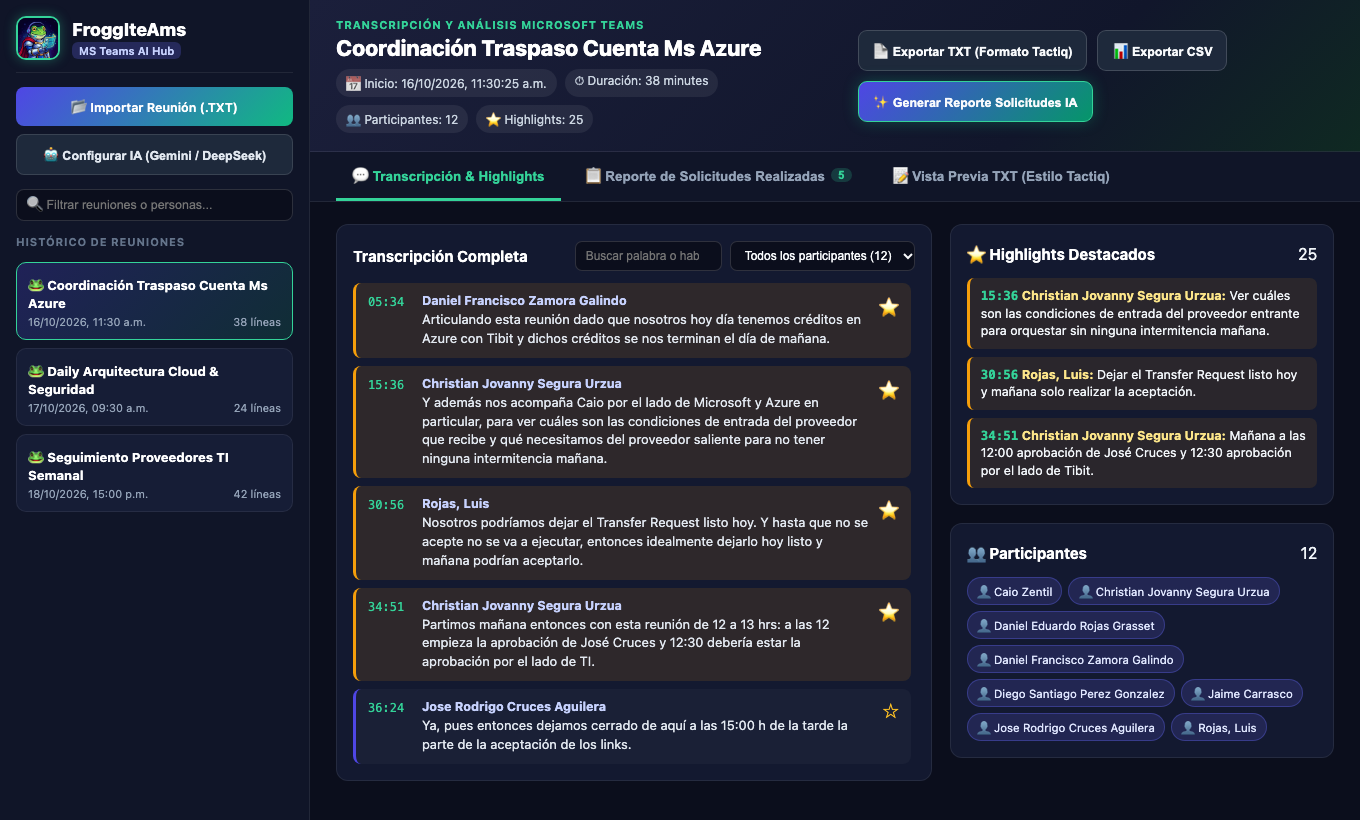
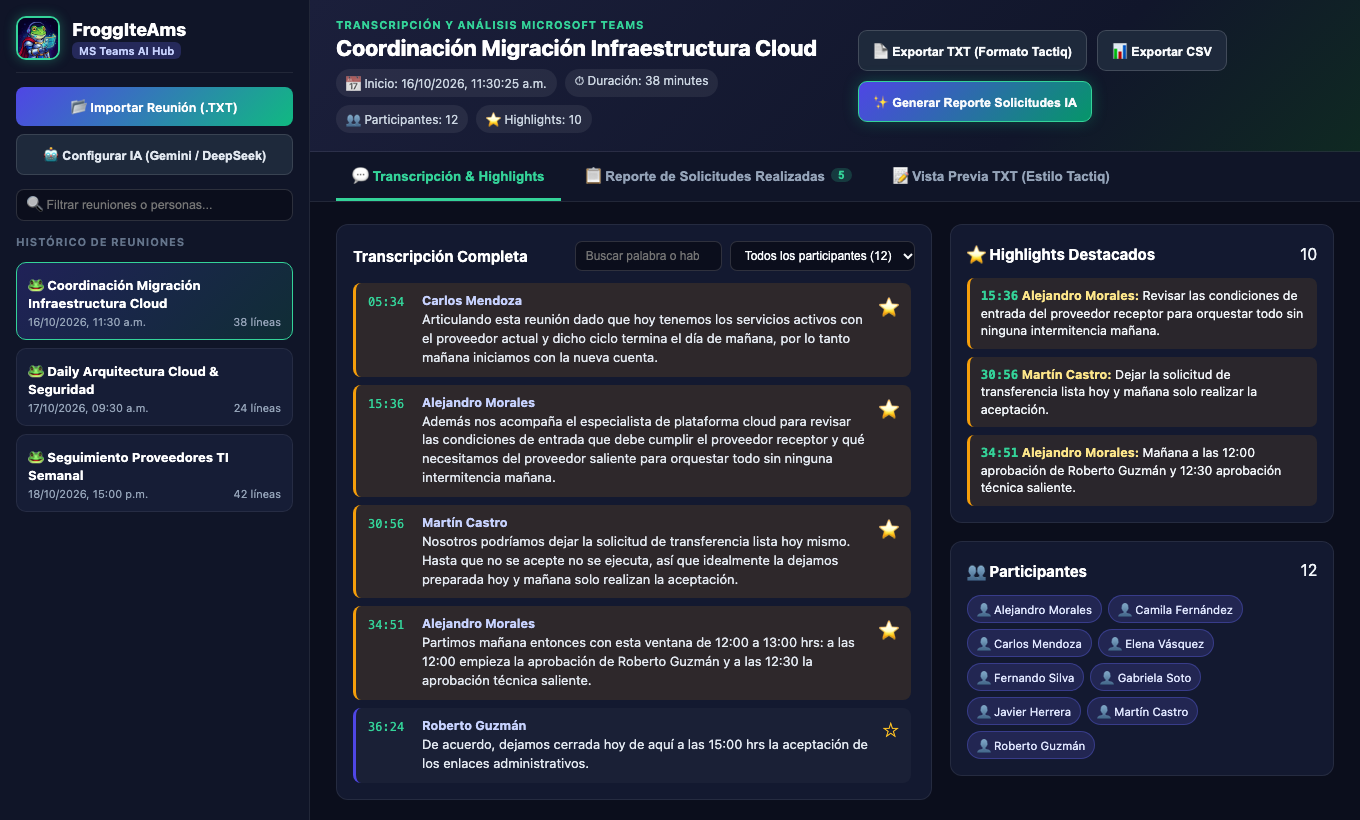
chore: anonymize sample participant names and regenerate README preview screenshots

diff --git a/lib/sample-data.js b/lib/sample-data.js
@@ -1,115 +1,122 @@
 // lib/sample-data.js
-// Pre-loaded sample meeting matching "Coordinación Traspaso Cuenta Ms Azure.txt"
+// Pre-loaded generic sample meeting for FroggIteAms
 
 export const SAMPLE_MEETING = {
-  id: "sample-azure-transfer-2026",
-  title: "Coordinación Traspaso Cuenta Ms Azure",
+  id: "sample-cloud-migration-2026",
+  title: "Coordinación Migración Infraestructura Cloud",
   startedAt: "2026-10-16T11:30:25.000Z",
   startedDisplay: "16/10/2026, 11:30:25 a.m.",
   durationMinutes: 38,
   durationDisplay: "38 minutes",
-  sourceUrl: "https://teams.microsoft.com/l/meetup-join/sample-azure-transfer",
+  sourceUrl: "https://teams.cloud.microsoft/l/meetup-join/sample-cloud-migration",
   participants: [
-    "Caio Zentil",
-    "Christian Jovanny Segura Urzua",
-    "Daniel Eduardo Rojas Grasset",
-    "Daniel Francisco Zamora Galindo",
-    "Diego Santiago Perez Gonzalez",
-    "Jaime Carrasco",
-    "Jorge Daniel Quiroz Llanten",
-    "Jose Rodrigo Cruces Aguilera",
-    "Juan Mora",
-    "Pamela  Canaval",
-    "Paola Karolina Lillo Azúa",
-    "Rojas, Luis"
+    "Alejandro Morales",
+    "Camila Fernández",
+    "Carlos Mendoza",
+    "Elena Vásquez",
+    "Fernando Silva",
+    "Gabriela Soto",
+    "Javier Herrera",
+    "Lucía Navarro",
+    "Martín Castro",
+    "Roberto Guzmán",
+    "Sofía Ortega",
+    "Valentina Ríos"
   ],
   highlights: [
-    { time: "05:34", speaker: "Daniel Francisco Zamora Galindo", text: "Articulando esta reunión dado que. Nosotros hoy día tenemos créditos con en azure con tribus. Y. Dichos créditos a nosotros se nos terminan el día de mañana, por lo tanto de mañana los créditos son." },
-    { time: "11:04", speaker: "Daniel Francisco Zamora Galindo", text: "Sí Sí, lo que pasa es que a ver. Hay Hay lo como yo expliqué, nuestros créditos terminan mañana." },
-    { time: "15:26", speaker: "Christian Jovanny Segura Urzua", text: "Que tenemos por contrato con tibitbens mañana. Entonces, la idea hoy día, dado que están las dos contrapartes. Tanto tibit como global." },
-    { time: "15:36", speaker: "Christian Jovanny Segura Urzua", text: "Y además nos acompaña caio por el lado de de Microsoft y acture en particular, que es lo que nos convoca en esta cambio de de proveedor de de crédito. Es justamente Es justamente poder ver cuáles son las condiciones de entrada que tiene que tener el proveedor que recibe que necesitamos del proveedor saliente para poder nosotros orquestar y no tener ningún ningún, ninguna intermitencia ni ninguna problemática. El día de mañana." },
-    { time: "22:18", speaker: "Jorge Daniel Quiroz Llanten", text: "Oye, bueno, por mi parte me gustaría entender entonces cómo seguimos, porque la verdad que aquí, como les digo, me acompaña Diego, nuestro, especialista de Atxture, YY entender cómo cuáles sería el siguiente paso, entendiendo que ya mañana se vencen los los créditos de." },
-    { time: "26:04", speaker: "Daniel Francisco Zamora Galindo", text: "Para eso. Sí, pero eso eso lo lo lo podemos hacer mañana. Pamela, si eso es entre nosotros." },
-    { time: "26:23", speaker: "Daniel Francisco Zamora Galindo", text: "Yo lo apoyo en, en todo caso, en en ese escenario, ahora lo que lo que es, sí, lo que es importante. ¿Jaime, es que por lo que yo entendí de lo que indicó Jorge Quiroz hace un rato aquí la conchaparte que nos debería apoyar es Diego, cierto?" },
-    { time: "26:56", speaker: "Daniel Francisco Zamora Galindo", text: "Perfecto, o sea, en el caso que tuviéramos alguna, o sea, eso te va a llegar entre 10 y mañana, aquí no cualquier cosa." },
-    { time: "27:55", speaker: "Daniel Francisco Zamora Galindo", text: "Pues es lo que yo es lo que yo es lo que yo entendí de todas estas conversa. No, no, no voy a tener dualidad de servicio, sino que voy a tener a una empresa que me va a empezar a entregar servicio mañana." },
-    { time: "30:13", speaker: "Daniel Francisco Zamora Galindo", text: "Ya yo entendería entonces que ese, ese esos últimos. Eso última, esa últimas dos actividades se realizarían mañana." },
-    { time: "30:45", speaker: "Daniel Francisco Zamora Galindo", text: "Durante la tarde, a lo mejor podría, podría decirte. Sé que mediodía, mañana o a las 16:00 h de la tarde." },
-    { time: "30:56", speaker: "Rojas, Luis", text: "Nosotros podríamos dejar el trance a request, listo. Y hasta que no se acepte no se va a ejecutar entonces. Idealmente, dejarlo hoy listo. Y ya, pues mañana podrían aceptar los. Sí." },
-    { time: "31:25", speaker: "Jorge Daniel Quiroz Llanten", text: "Y se puede proceder mañana con con lo requerido." },
-    { time: "32:35", speaker: "Christian Jovanny Segura Urzua", text: "Sí. ¿Ya entonces, mañana por el lado nuestro, Jose cruces, quién va a ir aprobando esto?" },
-    { time: "33:04", speaker: "Daniel Francisco Zamora Galindo", text: "¿Eso es mañana?" },
-    { time: "33:05", speaker: "Jose Rodrigo Cruces Aguilera", text: "Pero se va a hacer mañana." },
-    { time: "33:05", speaker: "Christian Jovanny Segura Urzua", text: "Eso que va a ser mañana lo va a Paula Lillo también." },
-    { time: "33:23", speaker: "Christian Jovanny Segura Urzua", text: "¿Cómo? Ya entonces mejor contigo, mañana ya y Por otro lado tenemos que después de que tú lo apruebes tiene que ir la aprobación por el lado de Diego y equipo de Tibit y ya con eso tendríamos la el traspaso completo de la cuenta." },
-    { time: "33:48", speaker: "Christian Jovanny Segura Urzua", text: "Dejémoslo fijémos aquí un horario, cosa de que por el lado nuestro a las dos haga por la aprobación y así tampoco. Tener a Diego, pendiente todo el día y tenga 1 hora en específico para que nos ayude con estas. Si la gente de global. ¿Les parece al mediodía? De mañana." },
-    { time: "34:16", speaker: "Christian Jovanny Segura Urzua", text: "Ya. Entonces, mañana al mediodía. De repente, Dani dentro de la de la web estáis haciendo, dejemos, dejemos esta reunión, agendar igual para mañana. No es que nos vayamos a subir a la reunión, pero por lo menos quedamos todos conectados a través del chat o si se requiere algo." },
-    { time: "34:51", speaker: "Christian Jovanny Segura Urzua", text: "Partimos mañana entonces que hemos esta reunión de 12 a una mañana a las 12 empieza la aprobación de Jose cruces y 1230 debería estar en la aprobación por el lado de TI y de ahí ya. Después hacemos un chequeo de que todas las entidades se hayan generado de manera correcta." },
-    { time: "35:40", speaker: "Rojas, Luis", text: "Ya eso podría hacerse, idealmente hoy, para que no quede como paso pendiente para mañana y que mañana solo sea aceptación de Transfer." },
-    { time: "36:10", speaker: "Rojas, Luis", text: "Primero, ya ya tienes los dos links, después que esos dos links sean aceptados. Se puede generar el siguiente link de aceptación que se llama Gigabit, y ahí se los volvemos a enviar y ya con eso quedaríamos con esos pasos adelantados y." },
-    { time: "37:04", speaker: "Daniel Francisco Zamora Galindo", text: "Perfecto. ¿Estaríamos entonces chiquillos ya ya pasarle la 7?" },
-    { time: "37:11", speaker: "Daniel Francisco Zamora Galindo", text: "Ahora, mañana. A cita el canal abierto." }
+    {
+      time: "05:34",
+      speaker: "Carlos Mendoza",
+      text: "Articulando esta reunión dado que hoy tenemos los servicios activos con el proveedor actual y dicho ciclo termina el día de mañana, por lo tanto mañana iniciamos con la nueva cuenta."
+    },
+    {
+      time: "11:04",
+      speaker: "Carlos Mendoza",
+      text: "Sí, como expliqué al inicio, el periodo del entorno actual finaliza mañana al mediodía."
+    },
+    {
+      time: "15:26",
+      speaker: "Alejandro Morales",
+      text: "Como el contrato anterior vence mañana, la idea hoy día es alinear a las dos contrapartes técnicas, tanto al equipo saliente como al proveedor entrante."
+    },
+    {
+      time: "15:36",
+      speaker: "Alejandro Morales",
+      text: "Además nos acompaña el especialista de plataforma cloud para revisar las condiciones de entrada que debe cumplir el proveedor receptor y qué necesitamos del proveedor saliente para orquestar todo sin ninguna intermitencia mañana."
+    },
+    {
+      time: "22:18",
+      speaker: "Javier Herrera",
+      text: "Por mi parte me gustaría confirmar cómo seguimos, aquí me acompaña Fernando, nuestro especialista de arquitectura, para definir el siguiente paso entendiendo que mañana se realiza el corte."
+    },
+    {
+      time: "30:56",
+      speaker: "Martín Castro",
+      text: "Nosotros podríamos dejar la solicitud de transferencia lista hoy mismo. Hasta que no se acepte no se ejecuta, así que idealmente la dejamos preparada hoy y mañana solo realizan la aceptación."
+    },
+    {
+      time: "32:35",
+      speaker: "Alejandro Morales",
+      text: "Entonces mañana por el lado nuestro, Roberto Guzmán será quien vaya aprobando el traspaso en el portal."
+    },
+    {
+      time: "33:23",
+      speaker: "Alejandro Morales",
+      text: "Después de que Roberto lo apruebe, tiene que ir la aprobación por el lado de Fernando y el equipo saliente, y con eso tendríamos el traspaso completo de la suscripción."
+    },
+    {
+      time: "34:51",
+      speaker: "Alejandro Morales",
+      text: "Partimos mañana entonces con esta ventana de 12:00 a 13:00 hrs: a las 12:00 empieza la aprobación de Roberto Guzmán y a las 12:30 la aprobación técnica saliente, seguido de un chequeo de todas las instancias."
+    },
+    {
+      time: "35:40",
+      speaker: "Martín Castro",
+      text: "Idealmente dejemos aceptados los enlaces de relación hoy antes de las 15:00 hrs para que mañana solo sea la aceptación de la transferencia."
+    }
   ],
   transcript: [
-    { time: "00:00", speaker: "Jorge Daniel Quiroz Llanten", text: "Hola Daniel Rojas. Puros Daniel, no hay 10 buen día.", highlighted: false },
-    { time: "00:04", speaker: "Daniel Eduardo Rojas Grasset", text: "Buen día.", highlighted: false },
-    { time: "00:19", speaker: "Paola Karolina Lillo Azúa", text: "Hola, Buenos días.", highlighted: false },
-    { time: "00:45", speaker: "Jorge Daniel Quiroz Llanten", text: "Bien, gracias. Ahí para el para el resto, equivoque de IPS. Diego es nuestro especialista de de Artur. ¿Nos va a acompañar en esta sesión ya?", highlighted: false },
-    { time: "01:59", speaker: "Jaime Carrasco", text: "Sí, hola, Buenos días. Nos falta 1 a nosotros por el lado de por el lado de global, que es de Juan Mora.", highlighted: false },
-    { time: "02:06", speaker: "Daniel Francisco Zamora Galindo", text: "Perfecto tacayo del lado de Microsoft. Hola, buen día.", highlighted: false },
-    { time: "05:34", speaker: "Daniel Francisco Zamora Galindo", text: "Articulando esta reunión dado que. Nosotros hoy día tenemos créditos con en azure con tribus. Y. Dichos créditos a nosotros se nos terminan el día de mañana, por lo tanto de mañana los créditos son.", highlighted: true },
-    { time: "05:57", speaker: "Daniel Francisco Zamora Galindo", text: "Son gestionados. Por global car Por global Cartalo, para lo cual está Jaime y su equipo. ¿Entonces entiendo que hay una conversante ustedes para hacer el traspaso de la? ¿Eh? ¿Cómo se?", highlighted: false },
-    { time: "06:42", speaker: "Daniel Francisco Zamora Galindo", text: "Sí, pero solamente resumir de la parte de infraestructura de IPS está bueno. José Cruz es como jefe de infraestructura y la Paola como especialista, la Paola, como especialista, quienes conocen y la contraparte administrativa, posteriormente es Daniel Rojas que.", highlighted: false },
-    { time: "07:12", speaker: "Jaime Carrasco", text: "Sí el mira para para iniciarte este proceso, necesitamos que bueno, yo le envié por por correo. A José Luis y a Ana y a Paola. Que acceda accedan a ese link para. Para comenzar todo, todo este flujo. Con los usuarios de global admin de los dos tenant el tenant de Chile and de IPS. Ese es el primer Ese es el primer paso.", highlighted: false },
-    { time: "11:04", speaker: "Daniel Francisco Zamora Galindo", text: "Sí Sí, lo que pasa es que a ver. Hay Hay lo como yo expliqué, nuestros créditos terminan mañana.", highlighted: true },
-    { time: "15:26", speaker: "Christian Jovanny Segura Urzua", text: "Que tenemos por contrato con tibitbens mañana. Entonces, la idea hoy día, dado que están las dos contrapartes. Tanto tibit como global.", highlighted: true },
-    { time: "15:36", speaker: "Christian Jovanny Segura Urzua", text: "Y además nos acompaña caio por el lado de de Microsoft y acture en particular, que es lo que nos convoca en esta cambio de de proveedor de de crédito. Es justamente Es justamente poder ver cuáles son las condiciones de entrada que tiene que tener el proveedor que recibe que necesitamos del proveedor saliente para poder nosotros orquestar y no tener ningún ningún, ninguna intermitencia ni ninguna problemática. El día de mañana.", highlighted: true },
-    { time: "22:18", speaker: "Jorge Daniel Quiroz Llanten", text: "Oye, bueno, por mi parte me gustaría entender entonces cómo seguimos, porque la verdad que aquí, como les digo, me acompaña Diego, nuestro, especialista de Atxture, YY entender cómo cuáles sería el siguiente paso, entendiendo que ya mañana se vencen los los créditos de.", highlighted: true },
-    { time: "26:04", speaker: "Daniel Francisco Zamora Galindo", text: "Para eso. Sí, pero eso eso lo lo lo podemos hacer mañana. Pamela, si eso es entre nosotros.", highlighted: true },
-    { time: "26:23", speaker: "Daniel Francisco Zamora Galindo", text: "Yo lo apoyo en, en todo caso, en en ese escenario, ahora lo que lo que es, sí, lo que es importante. ¿Jaime, es que por lo que yo entendí de lo que indicó Jorge Quiroz hace un rato aquí la conchaparte que nos debería apoyar es Diego, cierto?", highlighted: true },
-    { time: "26:56", speaker: "Daniel Francisco Zamora Galindo", text: "Perfecto, o sea, en el caso que tuviéramos alguna, o sea, eso te va a llegar entre 10 y mañana, aquí no cualquier cosa.", highlighted: true },
-    { time: "27:55", speaker: "Daniel Francisco Zamora Galindo", text: "Pues es lo que yo es lo que yo es lo que yo entendí de todas estas conversa. No, no, no voy a tener dualidad de servicio, sino que voy a tener a una empresa que me va a empezar a entregar servicio mañana.", highlighted: true },
-    { time: "30:13", speaker: "Daniel Francisco Zamora Galindo", text: "Ya yo entendería entonces que ese, ese esos últimos. Eso última, esa últimas dos actividades se realizarían mañana.", highlighted: true },
-    { time: "30:45", speaker: "Daniel Francisco Zamora Galindo", text: "Durante la tarde, a lo mejor podría, podría decirte. Sé que mediodía, mañana o a las 16:00 h de la tarde.", highlighted: true },
-    { time: "30:56", speaker: "Rojas, Luis", text: "Nosotros podríamos dejar el trance a request, listo. Y hasta que no se acepte no se va a ejecutar entonces. Idealmente, dejarlo hoy listo. Y ya, pues mañana podrían aceptar los. Sí.", highlighted: true },
-    { time: "31:25", speaker: "Jorge Daniel Quiroz Llanten", text: "Y se puede proceder mañana con con lo requerido.", highlighted: true },
-    { time: "32:35", speaker: "Christian Jovanny Segura Urzua", text: "Sí. ¿Ya entonces, mañana por el lado nuestro, Jose cruces, quién va a ir aprobando esto?", highlighted: true },
-    { time: "33:04", speaker: "Daniel Francisco Zamora Galindo", text: "¿Eso es mañana?", highlighted: true },
-    { time: "33:05", speaker: "Jose Rodrigo Cruces Aguilera", text: "Pero se va a hacer mañana.", highlighted: true },
-    { time: "33:05", speaker: "Christian Jovanny Segura Urzua", text: "Eso que va a ser mañana lo va a Paula Lillo también.", highlighted: true },
-    { time: "33:23", speaker: "Christian Jovanny Segura Urzua", text: "¿Cómo? Ya entonces mejor contigo, mañana ya y Por otro lado tenemos que después de que tú lo apruebes tiene que ir la aprobación por el lado de Diego y equipo de Tibit y ya con eso tendríamos la el traspaso completo de la cuenta.", highlighted: true },
-    { time: "33:48", speaker: "Christian Jovanny Segura Urzua", text: "Dejémoslo fijémos aquí un horario, cosa de que por el lado nuestro a las dos haga por la aprobación y así tampoco. Tener a Diego, pendiente todo el día y tenga 1 hora en específico para que nos ayude con estas. Si la gente de global. ¿Les parece al mediodía? De mañana.", highlighted: true },
-    { time: "34:16", speaker: "Christian Jovanny Segura Urzua", text: "Ya. Entonces, mañana al mediodía. De repente, Dani dentro de la de la web estáis haciendo, dejemos, dejemos esta reunión, agendar igual para mañana. No es que nos vayamos a subir a la reunión, pero por lo menos quedamos todos conectados a través del chat o si se requiere algo.", highlighted: true },
-    { time: "34:51", speaker: "Christian Jovanny Segura Urzua", text: "Partimos mañana entonces que hemos esta reunión de 12 a una mañana a las 12 empieza la aprobación de Jose cruces y 1230 debería estar en la aprobación por el lado de TI y de ahí ya. Después hacemos un chequeo de que todas las entidades se hayan generado de manera correcta.", highlighted: true },
-    { time: "35:40", speaker: "Rojas, Luis", text: "Ya eso podría hacerse, idealmente hoy, para que no quede como paso pendiente para mañana y que mañana solo sea aceptación de Transfer.", highlighted: true },
-    { time: "36:10", speaker: "Rojas, Luis", text: "Primero, ya ya tienes los dos links, después que esos dos links sean aceptados. Se puede generar el siguiente link de aceptación que se llama Gigabit, y ahí se los volvemos a enviar y ya con eso quedaríamos con esos pasos adelantados y.", highlighted: true },
-    { time: "36:24", speaker: "Jose Rodrigo Cruces Aguilera", text: "Ya, pues entonces dejamos cerrado de aquí a las 15:00 H de la tarde y dejamos todo cerrado. La parte de la aceptación del Impug.", highlighted: false },
-    { time: "36:33", speaker: "Christian Jovanny Segura Urzua", text: "Luis, como tú eres proveedor entrante, por favor, en el mismo. ¿En la misma cita de de teams que tenemos, anda dándonos estatus de avance y vaya subiendo, si es que hay algún algún Guardian al cual prestarle atención para que tengamos la visibilidad, por favor ocupemos ya?", highlighted: false },
-    { time: "36:49", speaker: "Rojas, Luis", text: "Perfec Perfecto. Sí, con mucho gusto y yo los voy a estar actualizando cuando ya se acepdad, cuando ya se creen los transfer request. Igual ya ahí, Diego va a poder ver en el chat la actualización.", highlighted: false },
-    { time: "37:04", speaker: "Daniel Francisco Zamora Galindo", text: "Perfecto. ¿Estaríamos entonces chiquillos ya ya pasarle la 7?", highlighted: true },
-    { time: "37:11", speaker: "Daniel Francisco Zamora Galindo", text: "Ahora, mañana. A cita el canal abierto.", highlighted: true },
-    { time: "37:15", speaker: "Christian Jovanny Segura Urzua", text: "Asegúrate que llegue con el chat activado. Dani para la para los tenis, que no son internos, porfa.", highlighted: false }
+    { time: "00:00", speaker: "Javier Herrera", text: "Hola a todos, muy buen día.", highlighted: false },
+    { time: "00:04", speaker: "Carlos Mendoza", text: "Buen día equipo, ¿cómo están?", highlighted: false },
+    { time: "00:19", speaker: "Camila Fernández", text: "Hola, buenos días a todos.", highlighted: false },
+    { time: "00:45", speaker: "Javier Herrera", text: "Fernando es nuestro especialista de plataforma cloud y nos va a acompañar en esta sesión.", highlighted: false },
+    { time: "01:59", speaker: "Gabriela Soto", text: "Hola, buenos días. Ya se conectó todo nuestro equipo técnico para revisar el flujo.", highlighted: false },
+    { time: "05:34", speaker: "Carlos Mendoza", text: "Articulando esta reunión dado que hoy tenemos los servicios activos con el proveedor actual y dicho ciclo termina el día de mañana, por lo tanto mañana iniciamos con la nueva cuenta.", highlighted: true },
+    { time: "06:42", speaker: "Carlos Mendoza", text: "Por la parte de infraestructura nos acompañan Roberto Guzmán como líder de infraestructura y Camila Fernández como especialista de plataforma.", highlighted: false },
+    { time: "07:12", speaker: "Gabriela Soto", text: "Para iniciar este proceso enviamos por correo a Roberto y Camila los enlaces de autorización para ambos entornos con permisos de administrador global.", highlighted: false },
+    { time: "11:04", speaker: "Carlos Mendoza", text: "Sí, como expliqué al inicio, el periodo del entorno actual finaliza mañana al mediodía.", highlighted: true },
+    { time: "15:26", speaker: "Alejandro Morales", text: "Como el contrato anterior vence mañana, la idea hoy día es alinear a las dos contrapartes técnicas, tanto al equipo saliente como al proveedor entrante.", highlighted: true },
+    { time: "15:36", speaker: "Alejandro Morales", text: "Además nos acompaña el especialista de plataforma cloud para revisar las condiciones de entrada que debe cumplir el proveedor receptor y qué necesitamos del proveedor saliente para orquestar todo sin ninguna intermitencia mañana.", highlighted: true },
+    { time: "22:18", speaker: "Javier Herrera", text: "Por mi parte me gustaría confirmar cómo seguimos, aquí me acompaña Fernando, nuestro especialista de arquitectura, para definir el siguiente paso entendiendo que mañana se realiza el corte.", highlighted: true },
+    { time: "30:56", speaker: "Martín Castro", text: "Nosotros podríamos dejar la solicitud de transferencia lista hoy mismo. Hasta que no se acepte no se ejecuta, así que idealmente la dejamos preparada hoy y mañana solo realizan la aceptación.", highlighted: true },
+    { time: "32:35", speaker: "Alejandro Morales", text: "Entonces mañana por el lado nuestro, Roberto Guzmán será quien vaya aprobando el traspaso en el portal.", highlighted: true },
+    { time: "33:23", speaker: "Alejandro Morales", text: "Después de que Roberto lo apruebe, tiene que ir la aprobación por el lado de Fernando y el equipo saliente, y con eso tendríamos el traspaso completo de la suscripción.", highlighted: true },
+    { time: "34:51", speaker: "Alejandro Morales", text: "Partimos mañana entonces con esta ventana de 12:00 a 13:00 hrs: a las 12:00 empieza la aprobación de Roberto Guzmán y a las 12:30 la aprobación técnica saliente, seguido de un chequeo de todas las instancias.", highlighted: true },
+    { time: "35:40", speaker: "Martín Castro", text: "Idealmente dejemos aceptados los enlaces de relación hoy antes de las 15:00 hrs para que mañana solo sea la aceptación de la transferencia.", highlighted: true },
+    { time: "36:24", speaker: "Roberto Guzmán", text: "De acuerdo, dejamos cerrada hoy de aquí a las 15:00 hrs la aceptación de los enlaces administrativos.", highlighted: false },
+    { time: "36:33", speaker: "Alejandro Morales", text: "Martín, por favor en el mismo canal de la reunión ve dándonos estatus de avance y avísanos apenas quede emitida la solicitud.", highlighted: false },
+    { time: "36:49", speaker: "Martín Castro", text: "Perfecto, con mucho gusto los voy actualizando en el chat apenas queden creados los registros de transferencia.", highlighted: false }
   ],
   requestsReport: {
     generatedAt: "2026-10-16T12:10:00.000Z",
-    provider: "FroggIteAms AI (Pre-analizado)",
-    summary: "Reunión de coordinación crítica para el traspaso de suscripción y créditos de Microsoft Azure desde el proveedor saliente (Tibit) hacia el proveedor entrante (Global), asegurando continuidad operativa sin intermitencia antes del vencimiento de créditos.",
+    provider: "FroggIteAms AI",
+    summary: "Reunión de coordinación técnica para la migración y traspaso de suscripción cloud entre proveedores, asegurando continuidad operativa sin intermitencia antes del corte programado.",
     requests: [
       {
         id: "REQ-01",
-        requester: "Jaime Carrasco / Luis Rojas (Global)",
-        assignee: "Jose Rodrigo Cruces Aguilera / Paola Karolina Lillo Azúa (IPS)",
-        description: "Aceptar los 2 links iniciales de relación de administración con credenciales de Global Admin en ambos tenants (ChileAtiende e IPS) y luego aceptar el tercer link (Billing/Gigabit) hoy antes de las 15:00 hrs.",
+        requester: "Gabriela Soto / Martín Castro",
+        assignee: "Roberto Guzmán / Camila Fernández",
+        description: "Aceptar los enlaces iniciales de relación administrativa con credenciales de Administrador Global antes de las 15:00 hrs de hoy.",
         priority: "Alta",
         deadline: "Hoy 15:00 hrs",
-        timestamp: "07:12 / 36:10",
+        timestamp: "07:12 / 35:40",
         status: "Pendiente"
       },
       {
         id: "REQ-02",
-        requester: "Christian Jovanny Segura Urzua",
-        assignee: "Rojas, Luis (Global)",
-        description: "Dejar creado hoy mismo el Transfer Request en el portal de Microsoft Azure y reportar estado de avance o eventuales warnings en el chat de la cita de Teams.",
+        requester: "Alejandro Morales",
+        assignee: "Martín Castro",
+        description: "Dejar creada hoy mismo la solicitud de transferencia (Transfer Request) en el portal cloud y reportar el avance en el canal de la reunión.",
         priority: "Alta",
         deadline: "Hoy (previo al traspaso)",
         timestamp: "30:56 / 36:33",
@@ -117,19 +124,19 @@ export const SAMPLE_MEETING = {
       },
       {
         id: "REQ-03",
-        requester: "Christian Jovanny Segura Urzua",
-        assignee: "Daniel Francisco Zamora Galindo",
-        description: "Agendar extensión de la cita de Teams para mañana de 12:00 a 13:00 hrs asegurando que el chat quede habilitado para usuarios externos de los tenants de Global y Tibit.",
+        requester: "Alejandro Morales",
+        assignee: "Carlos Mendoza",
+        description: "Agendar sesión de seguimiento en Teams para mañana de 12:00 a 13:00 hrs manteniendo abierto el canal de coordinación entre todos los equipos.",
         priority: "Media",
         deadline: "Hoy",
-        timestamp: "34:16 / 37:15",
+        timestamp: "34:51",
         status: "Pendiente"
       },
       {
         id: "REQ-04",
-        requester: "Christian Jovanny Segura Urzua",
-        assignee: "Jose Rodrigo Cruces Aguilera (IPS) & Diego Santiago Perez Gonzalez (Tibit)",
-        description: "Ejecutar ventana de aprobación del Transfer Request mañana: 12:00 hrs aprobación de José Cruces (IPS) y 12:30 hrs aprobación de salida por parte de Diego Pérez (Tibit), seguido de validación de entidades.",
+        requester: "Alejandro Morales",
+        assignee: "Roberto Guzmán & Fernando Silva",
+        description: "Ejecutar ventana de aprobación del traspaso mañana: 12:00 hrs aprobación de Roberto Guzmán y 12:30 hrs aprobación de salida por Fernando Silva, seguido de validación de servicios.",
         priority: "Crítica",
         deadline: "Mañana 12:00 - 13:00 hrs",
         timestamp: "33:23 / 34:51",
@@ -137,9 +144,9 @@ export const SAMPLE_MEETING = {
       },
       {
         id: "REQ-05",
-        requester: "Pamela Canaval",
-        assignee: "Daniel Francisco Zamora Galindo",
-        description: "Apoyar como administrador de contrato saliente en el seguimiento administrativo con Tibit durante el corte de servicio.",
+        requester: "Elena Vásquez",
+        assignee: "Carlos Mendoza",
+        description: "Apoyar en la coordinación administrativa del cierre de ciclo con el proveedor saliente.",
         priority: "Media",
         deadline: "Mañana",
         timestamp: "35:12",
@@ -147,9 +154,9 @@ export const SAMPLE_MEETING = {
       }
     ],
     keyAgreements: [
-      "Los créditos actuales con Tibit vencen mañana; no habrá dualidad de servicio sino corte y traspaso continuo.",
-      "Hoy antes de las 15:00 hrs se dejan aceptados los links de relación de tenant y pre-creado el Transfer Request.",
-      "Mañana entre 12:00 y 13:00 hrs se realiza la aceptación del traspaso en vivo con IPS, Global y Tibit conectados al canal de Teams."
+      "El ciclo actual finaliza mañana sin dualidad de servicio, realizando un traspaso continuo.",
+      "Hoy antes de las 15:00 hrs quedan aceptados los enlaces administrativos y pre-creada la solicitud de transferencia.",
+      "Mañana entre 12:00 y 13:00 hrs se ejecuta la aprobación en vivo y la verificación de instancias."
     ]
   }
 };

diff --git a/popup.js b/popup.js
@@ -16,10 +16,10 @@ let state = {
 };
 
 const DEMO_PHRASES = [
-  { speaker: "Daniel Francisco Zamora Galindo", text: "Articulando esta reunión dado que nuestros créditos en Azure terminan mañana." },
-  { speaker: "Christian Jovanny Segura Urzua", text: "Por favor Luis, hoy antes de las 15:00 necesitamos que quede creado el Transfer Request en el portal." },
-  { speaker: "Rojas, Luis", text: "Perfecto, enviaremos los dos links iniciales y luego el link de Gigabit para aceptación de José Cruces." },
-  { speaker: "Jose Rodrigo Cruces Aguilera", text: "De acuerdo, mañana a las 12:00 hrs hacemos la aprobación junto con Diego de Tibit." }
+  { speaker: "Carlos Mendoza", text: "Articulando esta reunión dado que el ciclo actual en la nube termina mañana." },
+  { speaker: "Alejandro Morales", text: "Por favor Martín, hoy antes de las 15:00 necesitamos que quede creada la solicitud de transferencia en el portal." },
+  { speaker: "Martín Castro", text: "Perfecto, enviaremos los dos enlaces iniciales de autorización para la aceptación de Roberto Guzmán." },
+  { speaker: "Roberto Guzmán", text: "De acuerdo, mañana a las 12:00 hrs hacemos la aprobación junto con el equipo técnico." }
 ];
 let demoIndex = 0;
 

diff --git a/lib/exporter.js b/lib/exporter.js
@@ -1,5 +1,5 @@
 // lib/exporter.js
-// Formats meeting transcripts to match the exact Tactiq format ("Coordinación Traspaso Cuenta Ms Azure.txt")
+// Formats meeting transcripts to match the standard Tactiq TXT format,
 // as well as CSV and Requests Report formats.
 
 export function formatMeetingDateTactiq(isoDateString, fallbackDisplay) {
